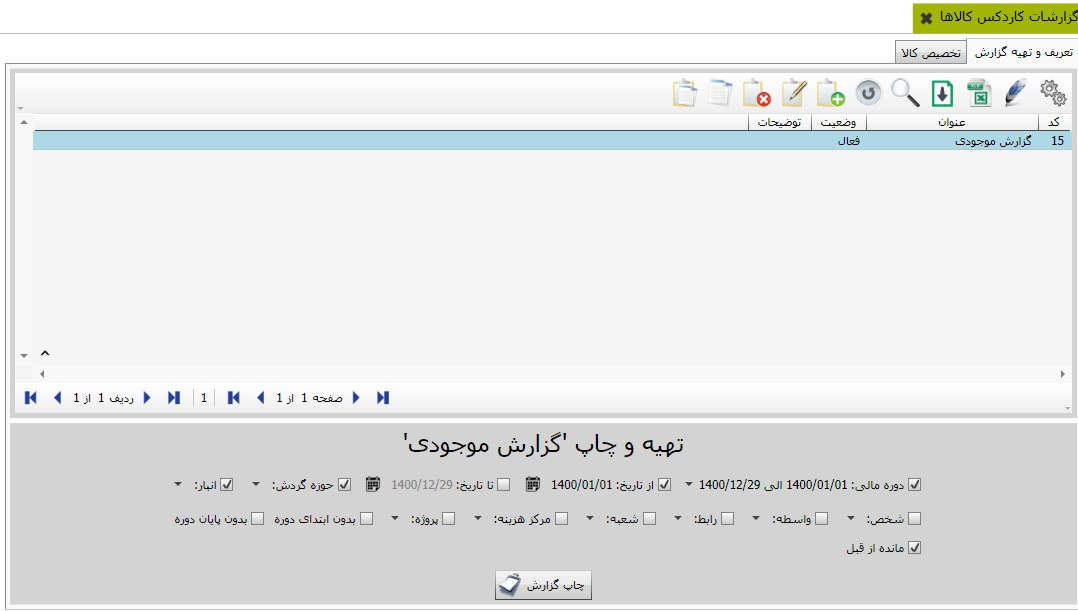
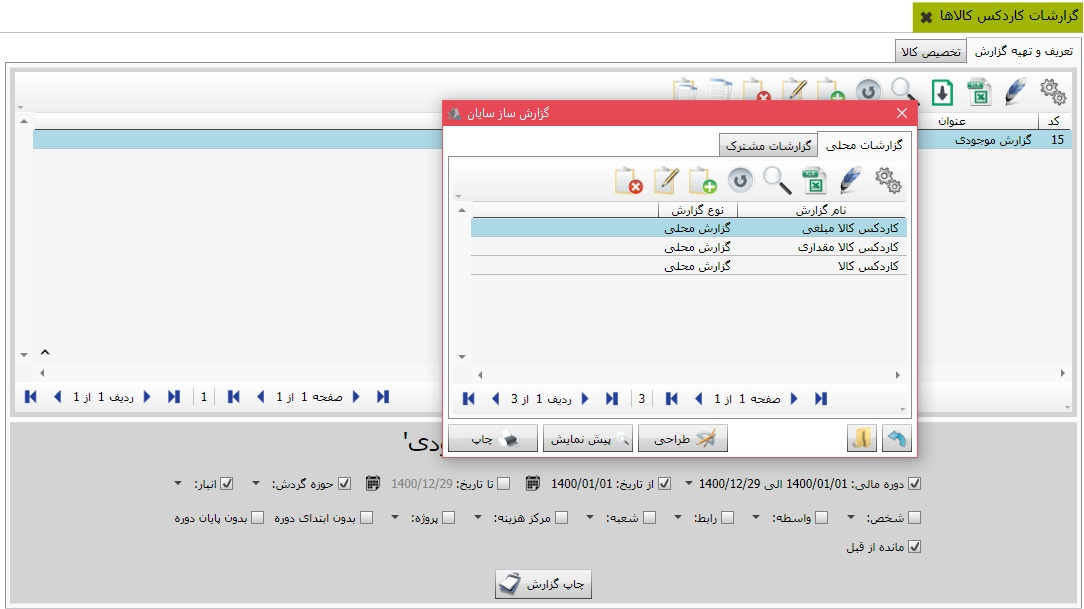
به روزرسانی نهایی گزارشات کاردکس کالاها

diff --git a/Help/fa-IR/_08_حسابداری انبار/_11_گزارشات کاردکس کالاها/Index.html b/Help/fa-IR/_08_حسابداری انبار/_11_گزارشات کاردکس کالاها/Index.html
@@ -21,5 +21,11 @@
 			لطفا کالاهای مورد نظرتان را از طریق دکمه های میانی به گزارش تخصیص دهید. 
 		</p>
 		<img class="FitPic" src="l2.jpg"/>
+		<p>
+			در تصویر ذیل امکان مشاهده گزارشات بر اساس گزارش تخصیص یافته کالاها مهیا شده 
+			است. شما می توانید با کلیک دکمه«چاپ گزارش» تنظیمات طراحی گزارش، 
+			پیش نمایش و چاپ آن را اعمال نمایید.
+		</p>
+		<img class="FitPic" src="l3.jpg"/>
 	</body>
 </html>
